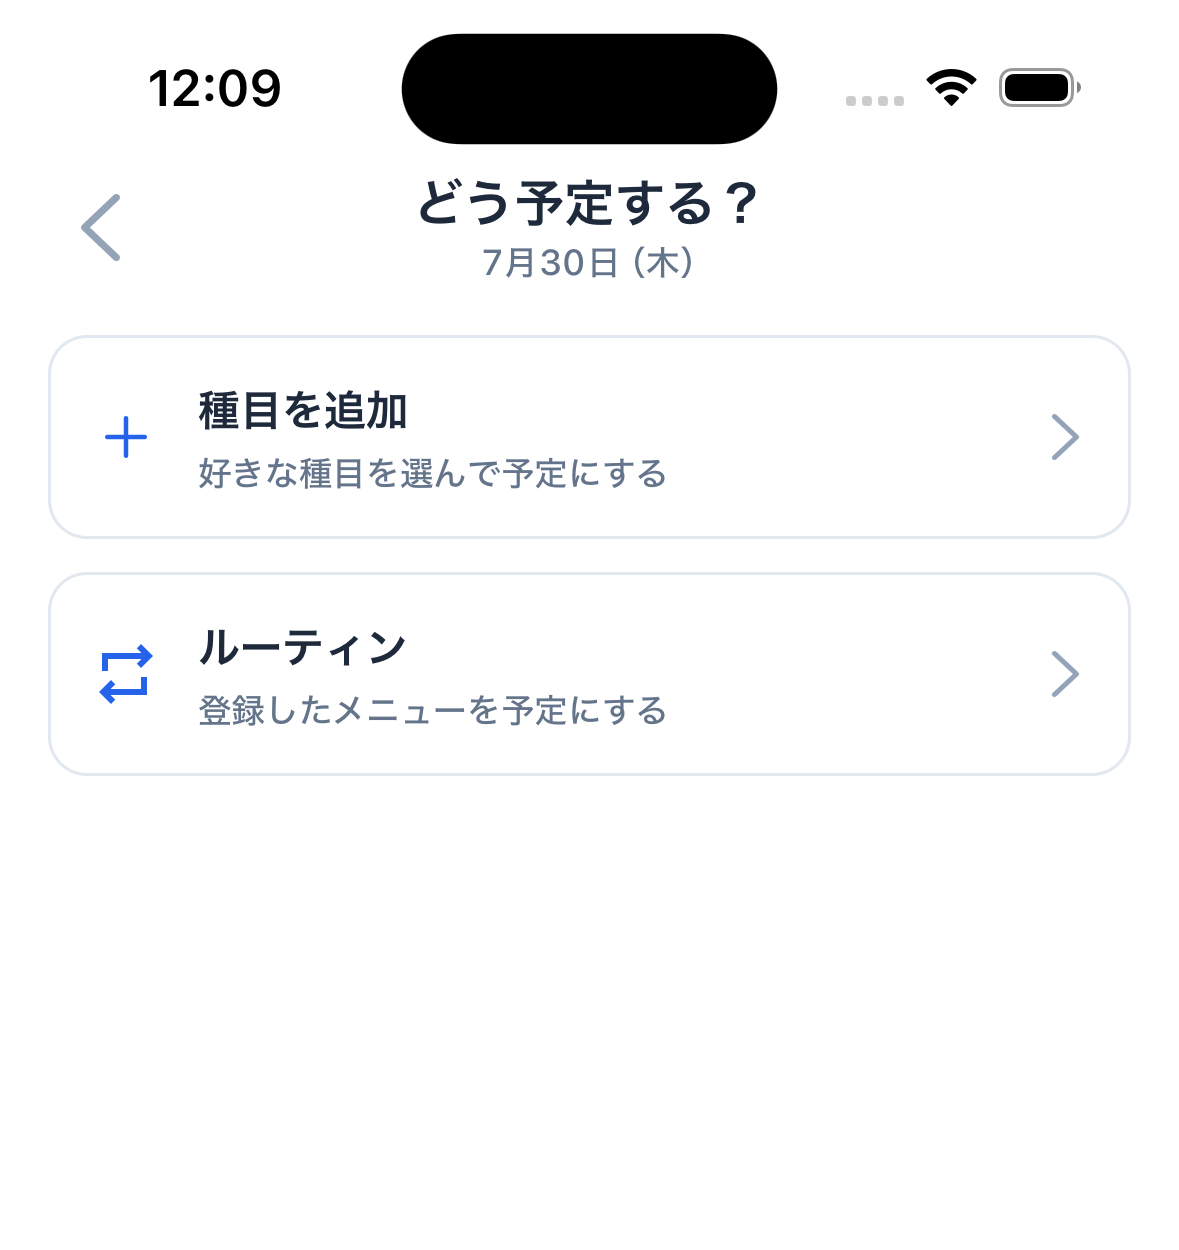
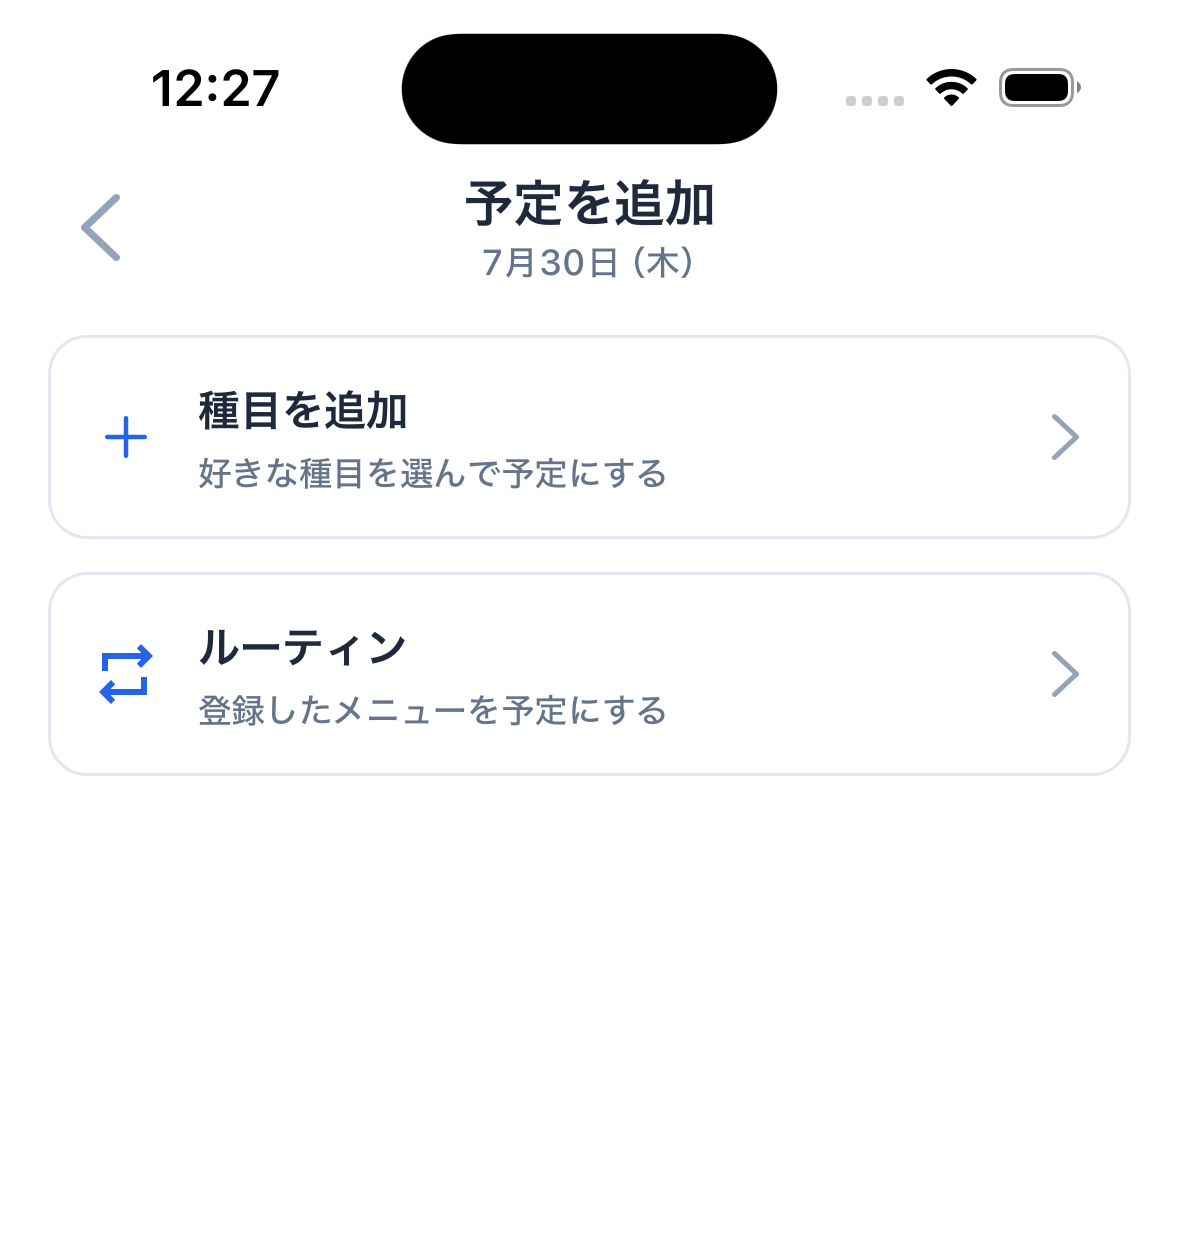
過去日・予定の選択画面タイトルを入口ボタンの文言に揃える
今日の選択画面がデザイン確定で「トレーニングを開始」（＝カレンダー選択日パネルの入口
ボタンと同じ文言）になったため、残る2画面も同じ規則に揃える。疑問形と体言止めの混在も
解消される。

- 過去日: 「どう記録する？」→「記録を追加」
- 未来日: 「どう予定する？」→「予定を追加」

Changed region(s): [[0.3359, 0.1248, 0.6412, 0.1872], [0.1221, 0.0624, 0.2443, 0.0936]]

diff --git a/app/_layout.tsx b/app/_layout.tsx
@@ -204,14 +204,19 @@ export default function RootLayout() {
           <Stack.Screen name="workout/routine-load" options={{ title: '' }} />
           {/* デザイン案「トレーニング開始選択画面」の見出し文言に合わせる（2026-07-25、
               旧「どう始める？」から変更）。過去日の事後記録モードでは画面側で
-              「どう記録する？」＋対象日サブタイトルに上書きする */}
+              「記録を追加」＋対象日サブタイトルに上書きする。
+              3つの選択画面のタイトルは、カレンダー選択日パネルの入口ボタンの文言と1:1で
+              揃える方針（今日=トレーニングを開始 / 過去日=記録を追加 / 未来日=予定を追加）。
+              押したボタンと同じ言葉が次の画面の見出しに出るため、どこに来たかが迷わない
+              （2026-07-25、@ユーザー確認済み。旧「どう記録する？」「どう予定する？」の
+              疑問形から変更） */}
           <Stack.Screen name="workout/start-chooser" options={{ title: 'トレーニングを開始' }} />
           {/* 過去日モード（pastDateKey付き）のときだけ選択中の日付をサブタイトルに動的表示
               するため、その場合のみ画面側でStack.Screen optionsを上書きする */}
           <Stack.Screen name="workout/start-routine-picker" options={{ title: 'ルーティンを選択' }} />
           {/* 選択中の日付をヘッダーに動的表示するため、画面側でStack.Screen optionsを
               上書きする（workout/routine-loadと同じ方針、2026-07-20新設） */}
-          <Stack.Screen name="calendar/schedule-chooser" options={{ title: 'どう予定する？' }} />
+          <Stack.Screen name="calendar/schedule-chooser" options={{ title: '予定を追加' }} />
           <Stack.Screen name="calendar/schedule-exercise-picker" options={{ title: '種目を選択' }} />
           {/* どちらも選択中の日付をヘッダーに動的表示するため、画面側でStack.Screen optionsを
               上書きする（workout/routine-loadと同じ方針） */}

diff --git a/app/calendar/schedule-chooser.tsx b/app/calendar/schedule-chooser.tsx
@@ -37,7 +37,7 @@ export default function ScheduleChooserScreen() {
   if (!isValidDateKey(dateKey)) {
     return (
       <SafeAreaView style={styles.safeArea} edges={['bottom']}>
-        <Stack.Screen options={{ title: 'どう予定する？' }} />
+        <Stack.Screen options={{ title: '予定を追加' }} />
         <NotFoundState message="日付が見つかりません" actionLabel="戻る" onPressAction={() => router.back()} />
       </SafeAreaView>
     );
@@ -49,7 +49,7 @@ export default function ScheduleChooserScreen() {
     <SafeAreaView style={styles.safeArea} edges={['bottom']}>
       <Stack.Screen
         options={{
-          headerTitle: () => <HeaderTitle title="どう予定する？" subtitle={dateLabel} />,
+          headerTitle: () => <HeaderTitle title="予定を追加" subtitle={dateLabel} />,
         }}
       />
       <View style={styles.list}>

diff --git a/app/workout/start-chooser.tsx b/app/workout/start-chooser.tsx
@@ -80,7 +80,7 @@ export default function StartChooserScreen() {
   if (pastDateKey !== undefined && !isPastMode) {
     return (
       <SafeAreaView style={styles.safeArea} edges={['bottom']}>
-        <Stack.Screen options={{ title: 'どう記録する？' }} />
+        <Stack.Screen options={{ title: '記録を追加' }} />
         <NotFoundState message="日付が見つかりません" actionLabel="戻る" onPressAction={() => router.back()} />
       </SafeAreaView>
     );
@@ -95,7 +95,7 @@ export default function StartChooserScreen() {
       {isPastMode && (
         <Stack.Screen
           options={{
-            headerTitle: () => <HeaderTitle title="どう記録する？" subtitle={pastDateLabel!} />,
+            headerTitle: () => <HeaderTitle title="記録を追加" subtitle={pastDateLabel!} />,
           }}
         />
       )}

diff --git a/__tests__/workout/start-chooser-screen.test.tsx b/__tests__/workout/start-chooser-screen.test.tsx
@@ -102,9 +102,9 @@ describe('pastDateKeyモード（過去日の事後記録）', () => {
     mockUseLocalSearchParams.mockReturnValue({ pastDateKey: '2026-07-25' });
   });
 
-  test('タイトルに「どう記録する？」と対象日をサブタイトルで表示する（@user-advisor指摘: 日付取り違え防止）', () => {
+  test('タイトルに「記録を追加」と対象日をサブタイトルで表示する（@user-advisor指摘: 日付取り違え防止）', () => {
     const root = render();
-    expect(root.findByProps({ children: 'どう記録する？' })).toBeDefined();
+    expect(root.findByProps({ children: '記録を追加' })).toBeDefined();
     expect(root.findByProps({ children: '7月25日（土）' })).toBeDefined();
   });
 

diff --git a/components/workout/start-method-row.tsx b/components/workout/start-method-row.tsx
@@ -21,7 +21,7 @@ type Props = {
 };
 
 // 「開始/予定の方法を1つ選ぶ」リストの1行。トレーニング開始選択画面
-// （app/workout/start-chooser.tsx）とカレンダーの「どう予定する？」
+// （app/workout/start-chooser.tsx）とカレンダーの「予定を追加」
 // （app/calendar/schedule-chooser.tsx）で共有する
 export function StartMethodRow({ icon, label, description, onPress, hint }: Props) {
   return (
